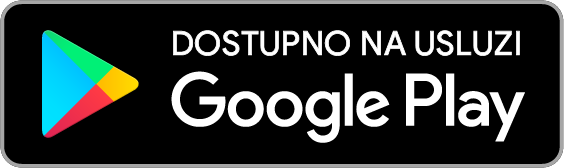
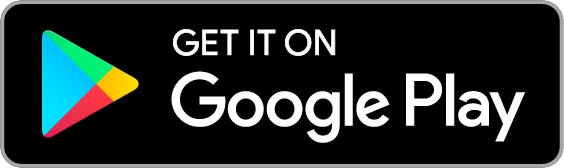
added login page style and structure

Changed region(s): [[0.3014, 0.1488, 0.9344, 0.3571]]

diff --git a/src/styles/pages/login.scss b/src/styles/pages/login.scss
@@ -1,5 +1,247 @@
 @import "../properties";
 
 .loginPage {
-  display: flex;
+	transform: translateY(-54px);
+	display: flex;
+	flex-direction: column;
+	align-items: center;
+	background-color: inherit;
+}
+.logContainer {
+	width: 100%;
+	max-width: 935px;
+	margin: 0 auto;
+	margin-top: 32px;
+	padding-bottom: 32px;
+
+	display: flex;
+	justify-content: center;
+
+	.previewContainer {
+		align-self: center;
+		background-image: url(/images/phoneBG.png);
+		background-position: 0 0;
+		background-size: 454px 618px;
+		flex-basis: 454px;
+		height: 618px;
+		margin-left: -35px;
+		margin-right: -15px;
+	}
+	.loginContainer {
+		margin-top: 12px;
+		flex: 1;
+		flex-grow: 1;
+		max-width: 350px;
+		display: flex;
+		flex-direction: column;
+		justify-content: center;
+	}
+}
+.previewContainer {
+	.images {
+		margin: 99px 0 0 151px;
+		position: relative;
+		img {
+			height: 427px;
+			left: 0;
+			// opacity: 0;
+			position: absolute;
+			top: 0;
+			// visibility: hidden;
+			width: 240px;
+		}
+	}
+}
+.formContainer {
+	background-color: #fff;
+	border: 1px solid #dbdbdb;
+	border-radius: 1px;
+	margin: 0 0 10px;
+	padding: 10px 0;
+
+	.titleImg {
+		display: flex;
+		align-items: center;
+		justify-content: center;
+		margin: 12px auto 12px;
+		img {
+			width: 185px;
+			height: auto;
+		}
+	}
+
+	form {
+		display: flex;
+		flex-direction: column;
+		padding-top: 20px;
+		margin-bottom: 10px;
+
+		.inputContainer {
+			margin: 0 40px 6px;
+			background-color: #fafafa;
+			position: relative;
+			display: flex;
+			border-radius: 3px;
+			border: 1px solid #dbdbdb;
+
+			label {
+				width: 100%;
+				height: 36px;
+				display: flex;
+
+				span {
+					position: absolute;
+					top: 0;
+					left: 8px;
+					z-index: 5;
+					line-height: 36px;
+					font-size: 12px;
+					color: #8e8e8e;
+
+					transition: transform ease-out 0.1s;
+					&.typing {
+						transform-origin: left;
+						transform: scale(0.84) translateY(-10px);
+					}
+				}
+			}
+			input {
+				background-color: #fafafa;
+				width: 100%;
+				padding: 9px 8px 7px 8px;
+				border: none;
+				outline: 0;
+				&:focus {
+					outline: solid 1px #8e8e8e;
+				}
+				transition: all ease-out 0.1s;
+				&.typing {
+					// transform-origin: left;
+					padding-top: 14px;
+					padding-bottom: 2px;
+				}
+			}
+			.showPass {
+				position: absolute;
+				top: 0;
+				right: 8px;
+				z-index: 5;
+				height: 100%;
+				display: flex;
+				align-items: center;
+				font-size: 14px;
+				font-weight: 600;
+				color: #262626;
+				cursor: pointer;
+			}
+		}
+	}
+}
+.loginBtn {
+	margin: 8px 40px;
+	padding: 5px 9px;
+	background-color: #0095f6;
+	color: #fff;
+	border: 1px solid transparent;
+	border-radius: 4px;
+	font-weight: 600;
+	font-size: 14px;
+	line-height: 18px;
+	&:disabled {
+		background-color: rgba(0, 149, 246, 0.3);
+	}
+}
+.splitContainer {
+	margin: 10px 40px 18px;
+	display: flex;
+	align-items: center;
+	.line {
+		background-color: #dbdbdb;
+		height: 1px;
+		flex-grow: 1;
+		flex-shrink: 1;
+		transform: translateY(-2px);
+	}
+	p {
+		color: #8e8e8e;
+		font-size: 12px;
+		line-height: 15px;
+		margin: 0 18px;
+	}
+}
+.facebookBtn {
+	margin: 8px 40px;
+	cursor: pointer;
+	display: flex;
+	align-items: center;
+	justify-content: center;
+	img {
+		width: 1rem;
+		height: 1rem;
+		margin-right: 0.5rem;
+	}
+	span {
+		color: #385185;
+		font-size: 13px;
+		line-height: 18px;
+		font-weight: 600;
+	}
+}
+.forgot {
+	color: #00376b;
+	font-size: 12px;
+	line-height: 14px;
+	margin-top: 12px;
+	text-align: center;
+	cursor: pointer;
+}
+.registerContainer {
+	background-color: #fff;
+	border: 1px solid #dbdbdb;
+	border-radius: 1px;
+	padding: 10px 0;
+	margin-bottom: 10px;
+	P {
+		color: #262626;
+		font-size: 14px;
+		margin: 15px;
+		text-align: center;
+		span {
+			margin-left: 4px;
+			cursor: pointer;
+			font-weight: 600;
+			color: #0095f6;
+		}
+	}
+}
+.switchBtn {
+}
+.appDownload {
+	display: flex;
+	flex-direction: column;
+	p {
+		font-size: 14px;
+		line-height: 18px;
+		margin: 10px 20px;
+		text-align: center;
+	}
+	.downloads {
+		display: flex;
+		justify-content: center;
+		margin: 10px auto;
+		:first-child {
+			img {
+				margin-right: 8px;
+			}
+		}
+	}
+	img {
+		height: 40px;
+		cursor: pointer;
+	}
+}
+@media (max-width: 875px) {
+	.previewContainer {
+		display: none;
+	}
 }

diff --git a/src/pages/Login.js b/src/pages/Login.js
@@ -9,11 +9,13 @@ import Footer from "../components/sidebar/Footer";
 
 const Login = () => {
 	const [mode, setMode] = useState("login");
+	const [showPass, setShowPass] = useState(false);
 
 	const dispatch = useDispatch();
 	const { push } = useHistory();
 
-	function handleLogin() {
+	function handleLogin(e) {
+		e.preventDefault();
 		dispatch(changeNavActive(true));
 		dispatch(setLogin(true));
 		push("/home");
@@ -27,16 +29,100 @@ const Login = () => {
 		<div className='loginPage'>
 			{mode === "login" ? (
 				<div className='logContainer'>
-					<div className='previewContainer'></div>
+					<div className='previewContainer'>
+						<div className='images'>
+							<img src='/images/screenshot1.jpg' alt='screenshot' />
+						</div>
+					</div>
 					<div className='loginContainer'>
-						<button onClick={handleLogin}>Log in</button>
-						<button
-							onClick={() => {
-								setMode("register");
-							}}
-						>
-							Switch to Register
-						</button>
+						<div className='formContainer'>
+							<div className='titleImg'>
+								<img
+									src='/images/instagram-logo-big.png'
+									alt='Instagram title'
+								/>
+							</div>
+							<form className='loginForm' onSubmit={handleLogin}>
+								<div className='inputContainer'>
+									<label for='email'>
+										<span className={`typing`}>
+											Phone number, email or username
+										</span>
+										<input id='email' className={`typing`} />
+									</label>
+								</div>
+								<div className='inputContainer'>
+									<label for='password'>
+										<span className={`typing`}>Password</span>
+										<input
+											id='password'
+											type={`${!showPass ? "password" : "text"}`}
+											className={`typing`}
+										/>
+									</label>
+									<div
+										className={`showPass typing`}
+										onClick={() => {
+											setShowPass(!showPass);
+										}}
+									>{`${showPass ? "Hide" : "Show"}`}</div>
+								</div>
+								<button className='loginBtn' type='submit' disabled>
+									Log In
+								</button>
+								<div className='splitContainer'>
+									<div className='line'></div>
+									<p>OR</p>
+									<div className='line'></div>
+								</div>
+								<div className='facebookBtn'>
+									<img src='/images/facebook.png' alt='facebook-logo' />
+									<span>Log in with Facebook</span>
+								</div>
+								<p href='' className='forgot'>
+									Forgot password?
+								</p>
+							</form>
+						</div>
+
+						<div className='registerContainer'>
+							<p>
+								Don't have an account?
+								<span
+									className='switchBtn'
+									onClick={() => {
+										setMode("register");
+									}}
+								>
+									Sign up
+								</span>
+							</p>
+						</div>
+						<div className='appDownload'>
+							<p>Get the Real app.</p>
+							<div className='downloads'>
+								<a
+									target='_blank'
+									rel='noreferrer'
+									href='https://apps.apple.com/app/instagram/id389801252?vt=lo'
+								>
+									<img
+										src='/images/downloadApp.png'
+										alt='download from app store'
+									/>
+								</a>
+								<a
+									target='_blank'
+									rel='noreferrer'
+									href='https://play.google.com/store/apps/details?id=com.instagram.android&referrer=utm_source%3Dinstagramweb&utm_campaign=loginPage&ig_mid=B5F2BFB5-5A2C-49C6-BF65-4DA9866D6C34&utm_content=lo&utm_medium=badge'
+								>
+									<img
+										src='/images/downloadPlay.png'
+										alt='download from play store'
+									/>
+								</a>
+							</div>
+						</div>
 					</div>
 				</div>
 			) : (
